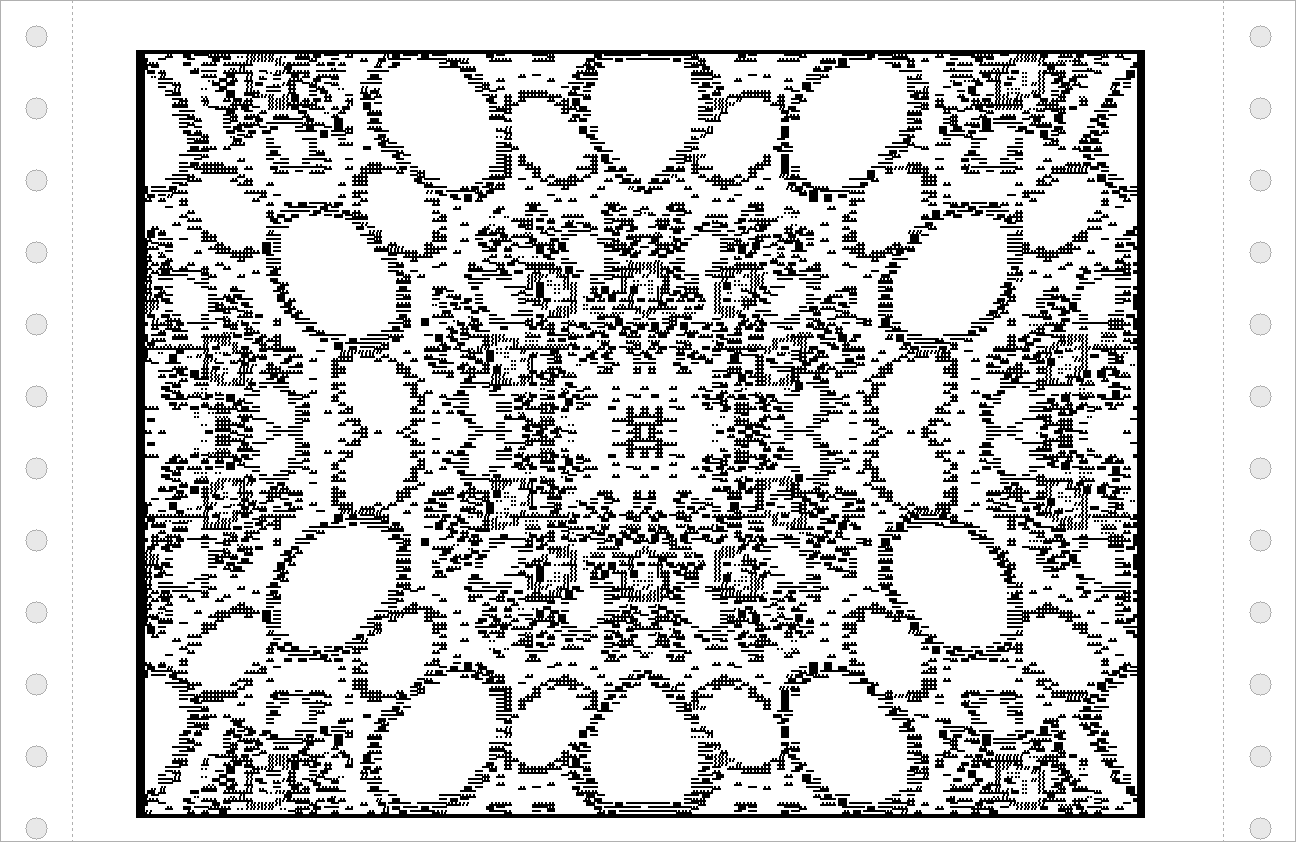
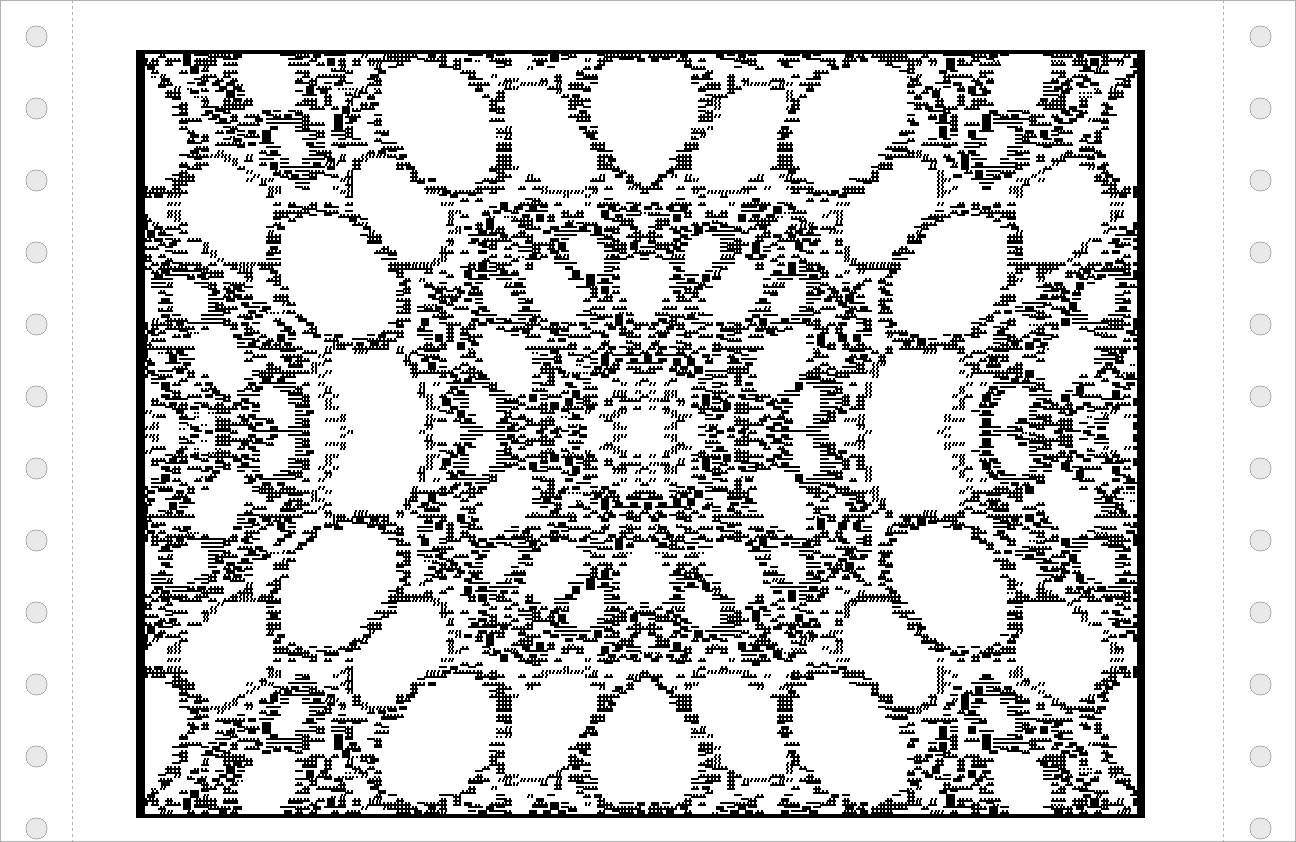
The Print Shop from its original disk, now that izapple2 writes WOZ disks
It saves its setup on its own disk, so the page used 4am's crack. The
woz-a-day disk comes set up for an Epson on a Micromax card, where the crack
had the ImageWriter already, so the setup goes to the ImageWriter and the
Apple II Parallel Interface by more keys, and is kept on the disk.

diff --git a/activities/printshop_test.go b/activities/printshop_test.go
@@ -22,7 +22,7 @@ const printShopMachine = `izapple2 -model none -board 2plus -cpu 6502 -screen co
     -rom "<internal>/Apple2_Plus.rom" \
     -charrom "<internal>/Apple2rev7CharGen.rom" -forceCaps \
     -s1 parallel,file=printer.out \
-    -s6 'diskii,disk1=disks/The Print Shop (4am crack) side A.dsk'`
+    -s6 'diskii,disk1=disks/The Print Shop side A.woz'`
 
 /*
 printShopScreenshots is The Print Shop of 1984 on an Apple ][+ with a
@@ -52,13 +52,23 @@ func printShopScreenshots(t *testing.T) {
 	}
 	must(t, pictures.SaveRecording(menu, "menu", 100))
 
-	// Setup: the ImageWriter, which it has chosen already, the Apple II
-	// Parallel Interface in slot 1, one drive, and the test of the printer,
-	// saved on the disk
+	// Setup: the ImageWriter, three down from the Epson the disk has; the
+	// Apple II Parallel Interface, on the first page of the cards, from the
+	// last line of the second, where the disk has a Micromax, three up; slot
+	// 1, one drive, and the test of the printer, saved on the disk
 	ps.key(nil, "Return")
+	for range 3 {
+		ps.key(nil, "Right")
+	}
 	must(t, pictures.Screenshot(o, "printer"))
 	ps.key(nil, "Return")
-	ps.key(nil, "Right")
+	for range 3 {
+		ps.key(nil, "Left")
+	}
+	ps.key(nil, "Return")
+	for range 5 {
+		ps.key(nil, "Right")
+	}
 	must(t, pictures.Screenshot(o, "interface"))
 	ps.key(nil, "Return")
 	ps.key(nil, "Return")

diff --git a/guides/print-shop.md b/guides/print-shop.md
@@ -20,14 +20,15 @@ dot by dot, as the ImageWriter would.
 
 ## What you need
 
-**`The Print Shop (4am crack) side A.dsk`**, the program, in
-[The Print Shop (4am crack)](https://archive.org/details/ThePrintShop4amCrack)
-of the Internet Archive: download *The Print Shop (4am crack).zip* and take
-it out of it. It is a copy without its protection, which The Print Shop needs
-here, as it saves its setup on its own disk and izapple2 does not write the
-WOZ images of the original disks yet (see [IZAPPLE2.md](../IZAPPLE2.md)).
-`./fetch-disks.sh` in this repository downloads it into `disks/` and checks
-it. izapple2 writes the setup into this file.
+**`The Print Shop side A.woz`**, the program, from the [woz-a-day
+collection](https://archive.org/details/wozaday_The_Print_Shop) of the
+Internet Archive: download *The Print Shop (woz-a-day collection).zip* and
+take it out of it. A WOZ file records a diskette bit by bit, its copy
+protection included, so it is the disk Broderbund sold. `./fetch-disks.sh`
+in this repository downloads it into `disks/` and checks it. The Print Shop
+saves its setup on its own disk, and izapple2 writes it into this file, as a
+drive would on the diskette; `./fetch-disks.sh` sees the file changed, and
+downloads it again, without it.
 
 **imagewriter2**, to see what was printed, a program in Go that reads the
 codes of the ImageWriter and draws the paper as a GIF picture. With
@@ -60,7 +61,7 @@ izapple2 -model none -board 2plus -cpu 6502 -screen color \
     -rom "<internal>/Apple2_Plus.rom" \
     -charrom "<internal>/Apple2rev7CharGen.rom" -forceCaps \
     -s1 parallel,file=printer.out \
-    -s6 'diskii,disk1=disks/The Print Shop (4am crack) side A.dsk'
+    -s6 'diskii,disk1=disks/The Print Shop side A.woz'
 ```
 
 The Print Shop is used with the keyboard: the arrow keys ← and → move the
@@ -87,14 +88,17 @@ The Print Shop drives each printer of its time with codes of its own, and
 needs to know which, and on what card, before it prints.
 
 3. **Choose Setup**, the last of the main menu, with Return. The printer: the
-   bar is on *Apple DMP, ImageWriter, Scribe*, Apple's printers, already;
-   **press Return**.
+   bar starts on the *Epson MX* the disk was set up for; **press → three
+   times**, to *Apple DMP, ImageWriter, Scribe*, Apple's printers, and
+   **Return**.
 
    ![Which printer](images/print-shop/printer.png)
 
-4. **The card: press → to *Apple II Parallel Interface*** and Return, the
-   card of slot 1; the bar starts on the card the disk was set up for, the
-   *Apple Super Serial*, and once the setup is saved, on this one.
+4. **The card**, the *Apple II Parallel Interface* of slot 1. The cards are
+   on two pages, and the bar starts on the second, on the *Micromax* the
+   disk was set up for: **press ← three times**, to *See more choices*, and
+   Return, for the first page, then **→ five times**, to *Apple II Parallel
+   Interface*, and Return. Once the setup is saved, the bar starts on it.
 
    ![Which printer interface](images/print-shop/interface.png)
 

diff --git a/IZAPPLE2.md b/IZAPPLE2.md
@@ -49,16 +49,12 @@ releases of izapple2 don't yet. The generators run on copies of the disks of
 
 Apple Pascal writes the work file to its disk, so it could not run from the
 original disks of the [woz-a-day collection](https://archive.org/details/wozaday_Apple_Pascal_v13).
-The Print Shop saves its setup, the printer and its card, on its disk, and
-prints with the one saved.
 
 **Here, now, a pull request each, each tried on the machine first:**
 
 - [pascal.md](guides/pascal.md) uses the disks inside izapple2; it could use
   the woz-a-day ones, downloaded, but see *Apple Pascal 1.3 from its
   original disks stops at the start with four drives*.
-- [print-shop.md](guides/print-shop.md) uses 4am's crack, as its woz-a-day
-  disk could be set up but not saved; it could use the original.
 
 **Here, once released:** say in the pages that write to a WOZ disk which
 release of izapple2 they need, at least, and take this out.
